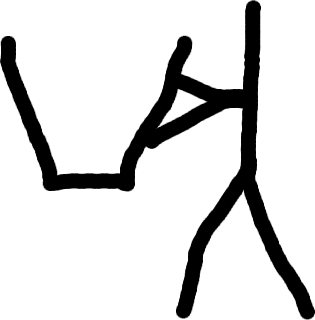
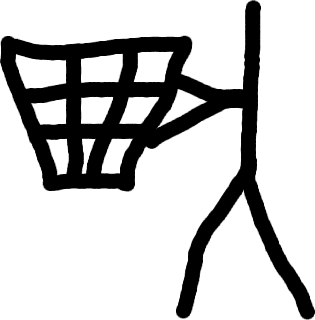
Add drinks and collision

Changed region(s): [[0.0286, 0.0938, 0.5714, 0.5625]]

diff --git a/src/js/Game.ts b/src/js/Game.ts
@@ -1,18 +1,72 @@
 import * as PIXI from "pixi.js";
 import {Guy} from "./Guy";
+import {Drink} from "./Drink";
+import anime from "animejs";
 
 // import { CONFIG } from "./Config";
 
 export class Game {
     app: PIXI.Application
     container: PIXI.Container;
+    bottlesContainer: PIXI.Container;
     guy: Guy;
+    drinks: Drink[];
+    timeout?: number
 
     constructor(app: PIXI.Application) {
         this.app = app;
         this.container = new PIXI.Container();
+        this.bottlesContainer = new PIXI.Container();
+
+        this.drinks = [];
+        this.timeout = 2000;
 
         this.guy = new Guy(this.app);
         this.container.addChild(this.guy.container);
+
+
+        this.createCycle();
+    }
+
+    createCycle = () => {
+        setTimeout(() => {
+            this.addDrink()
+            this.createCycle();
+        }, this.timeout)
+        this.timeout = Math.round(Math.random() * 2000);
+    }
+
+    addDrink = () => {
+        const drink = new Drink(this.app);
+        this.drinks.push(drink);
+        this.bottlesContainer.addChild(drink.container);
+        this.moveDrinks();
+    }
+
+    moveDrinks = () => {
+        // console.log(this.drinks.length);
+        this.drinks.forEach((drink) => {
+            anime({
+                targets: [drink.sprite!.position],
+                duration: 3000,
+                y: drink.sprite!.position.y + this.app.renderer.height / PIXI.settings.RESOLUTION,
+                easing: "linear",
+                update: () => {
+                    if (drink.sprite!.position.y > this.app.renderer.height / PIXI.settings.RESOLUTION - 395 &&
+                        drink.sprite!.position.y < this.app.renderer.height / PIXI.settings.RESOLUTION - 345 &&
+                        this.guy.rotation === drink.side
+                    ) {
+                        anime({
+                            targets: [drink.sprite],
+                            duration: 100,
+                            alpha: 0,
+                            complete: () => {
+                                this.bottlesContainer.removeChild(drink.container)
+                            }
+                        })
+                    }
+                }
+            })
+        })
     }
 }

diff --git a/src/js/Drink.ts b/src/js/Drink.ts
@@ -1,0 +1,41 @@
+import * as PIXI from "pixi.js";
+import anime from "animejs";
+
+export class Drink {
+    app: PIXI.Application
+    container: PIXI.Container;
+    sprite?: PIXI.Sprite;
+    width: number;
+    height: number;
+    side?: "left" | "right";
+
+    constructor(app: PIXI.Application) {
+        this.app = app;
+        this.container = new PIXI.Container();
+
+        this.height = 150;
+        this.width = 150;
+
+        this.addDrink();
+    }
+
+    addDrink = (side?: "left" | "right") => {
+        const sides = ["left", "right"];
+        this.side = sides[Math.round(Math.random())] as "left" | "right";
+
+        this.sprite = new PIXI.Sprite(PIXI.Loader.shared.resources["vakcina"].texture);
+        this.container.addChild(this.sprite);
+
+        this.sprite.scale.set(this.width / Math.max(this.sprite.width, this.sprite.height))
+
+        this.sprite.anchor.set(0.5, 1);
+
+        this.sprite.y = 0;
+
+        if (this.side === "left") {
+            this.sprite.position.x = 150;
+        } else {
+            this.sprite.position.x = 720 - 150;
+        }
+    }
+}

diff --git a/src/js/PreLoader.ts b/src/js/PreLoader.ts
@@ -43,6 +43,11 @@ export class Loader {
                 "shepa_left",
                 `${SESSION_CONFIG.assetsAddress}guys/shepa_left.png`
             )
+        // drinks
+            .add(
+                "vakcina",
+                `${SESSION_CONFIG.assetsAddress}drinks/vakcina.png`
+            )
 
         return new Promise((resolve) => {
             result.load(() => {

diff --git a/src/js/App.ts b/src/js/App.ts
@@ -36,6 +36,7 @@ export class App {
 
     onGameLoaded = () => {
         this.game = new Game(this.app);
+        this.app.stage.addChild(this.game.bottlesContainer);
         this.app.stage.addChild(this.game.container);
     };
 
